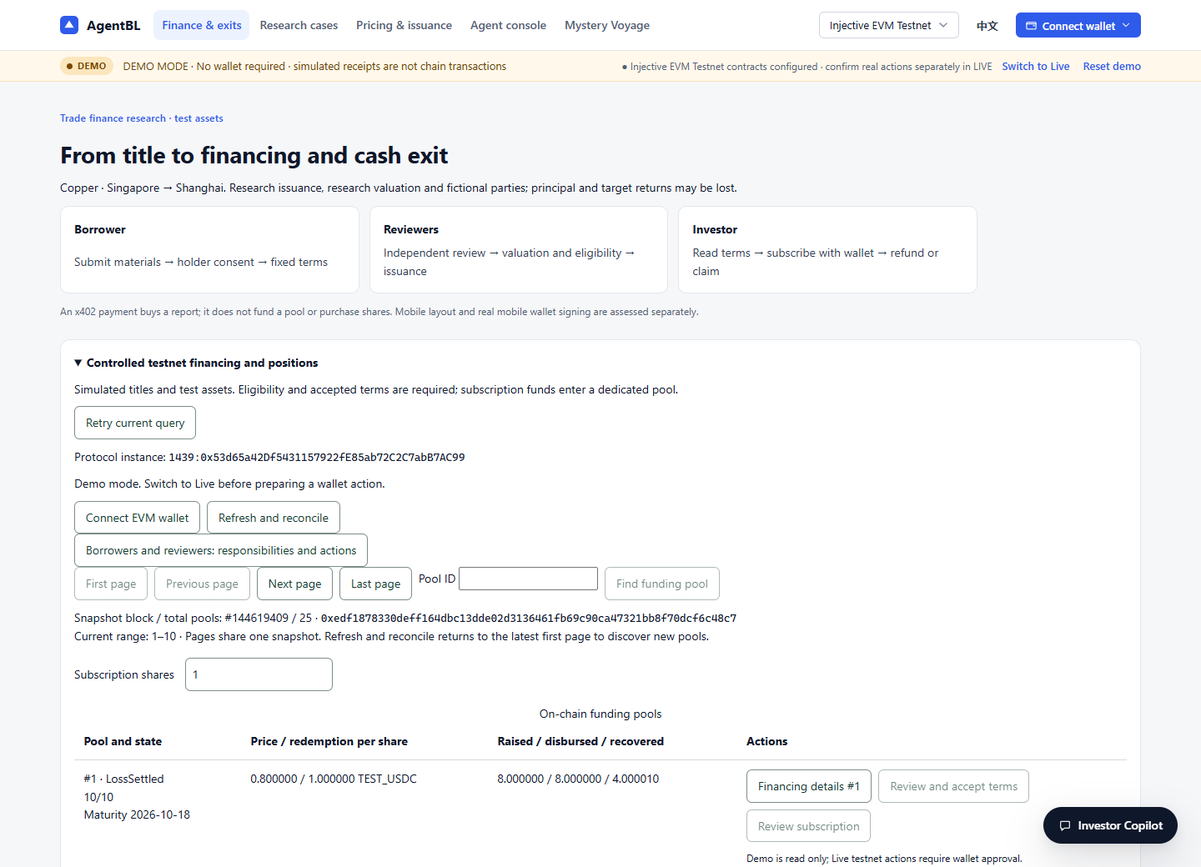
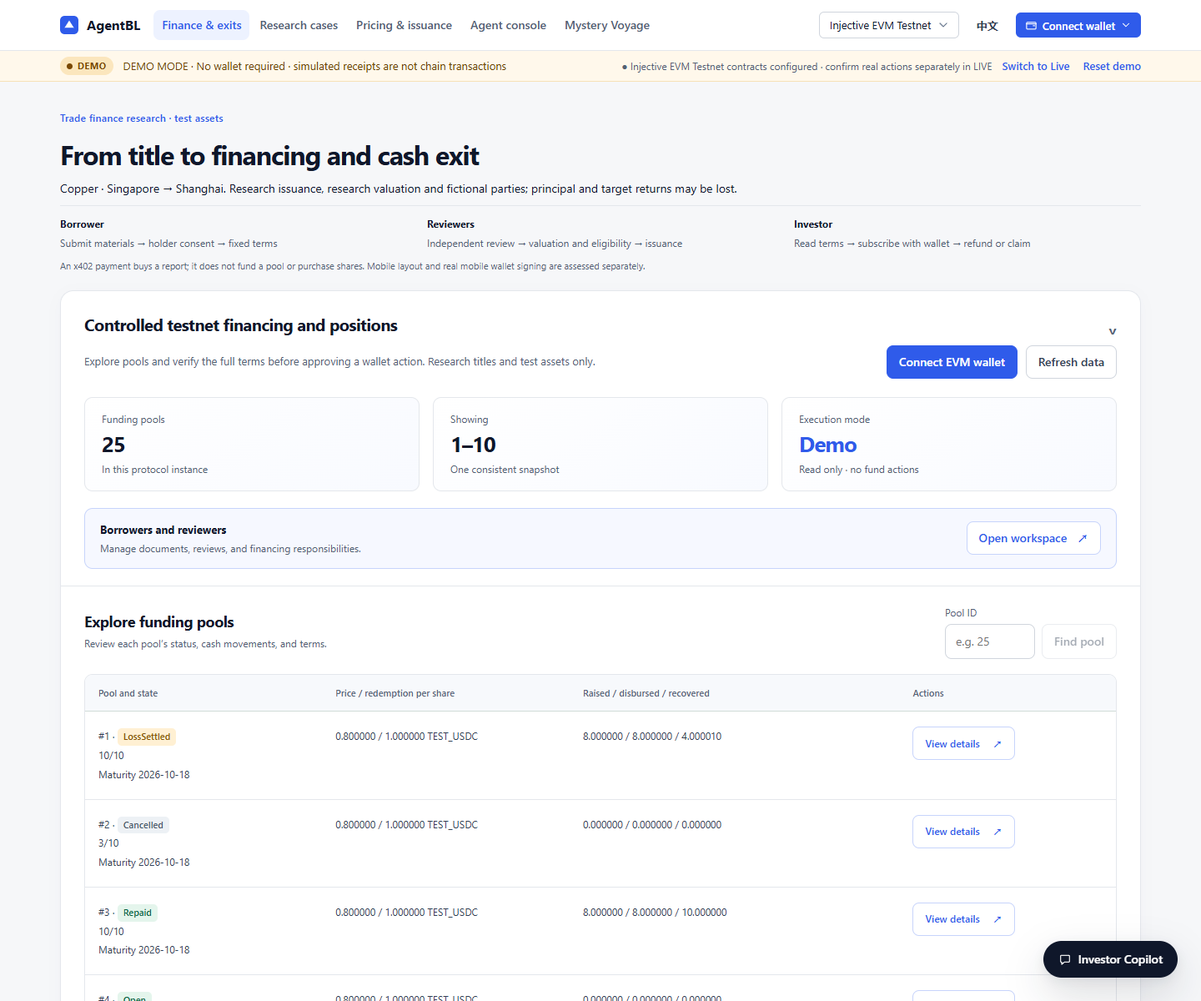
ui: organize financing controls and contextual pool actions

diff --git a/web/src/features/rights/ControlledFinancePanel.jsx b/web/src/features/rights/ControlledFinancePanel.jsx
@@ -24,6 +24,12 @@ export function ControlledFinancePanel({ primary = false }) {
   const focusAfterRead = useRef(null);
   const readGeneration = useRef(0);
   const confirmation = useRef(null), reviewOpener = useRef(null);
+  const detailPanel = useRef(null), detailOpener = useRef(null);
+  useEffect(() => {
+    if (selectedPool == null) return;
+    const frame = requestAnimationFrame(() => detailPanel.current?.focus());
+    return () => cancelAnimationFrame(frame);
+  }, [selectedPool]);
   useEffect(() => {
     const frame = requestAnimationFrame(() => {
       if (review) confirmation.current?.focus();
@@ -171,47 +177,63 @@ export function ControlledFinancePanel({ primary = false }) {
   };
   return <aside id="controlled-finance" className="controlled-panel" aria-label={zh ? '受控测试网融资' : 'Controlled testnet financing'}>
     <details open={primary || undefined}><summary>{zh ? '受控测试网融资与持仓' : 'Controlled testnet financing and positions'}</summary>
-      <p>{zh ? '模拟单证、测试代币。资格与条款同意通过后才可认购；募集款进入独立资金池。' : 'Simulated titles and test assets. Eligibility and accepted terms are required; subscription funds enter a dedicated pool.'}</p>
-      <div className="controlled-actions"><button type="button" disabled={busy || loading} onClick={() => setRefresh((n) => n + 1)}>{zh ? '重试当前查询' : 'Retry current query'}</button></div>
-      {loading && <p role="status">{zh ? '正在读取链上快照与持仓…' : 'Reading chain snapshot and positions…'}</p>}
+      <div className="finance-panel-lead">
+        <p>{zh ? '核对资金池状态与完整条款，再由钱包确认每一步。仅限模拟单证与测试代币。' : 'Explore pools and verify the full terms before approving a wallet action. Research titles and test assets only.'}</p>
+        <div className="finance-primary-actions">
+          {status?.active && <button type="button" className="finance-button-primary" onClick={connect} disabled={busy}>{wallet ? `${wallet.slice(0, 8)}…${wallet.slice(-4)}` : (zh ? '连接 EVM 钱包' : 'Connect EVM wallet')}</button>}
+          <button type="button" aria-label={zh ? '重试当前查询' : 'Retry current query'} disabled={busy || loading} onClick={() => setRefresh((n) => n + 1)}>{zh ? '刷新数据' : 'Refresh data'}</button>
+        </div>
+      </div>
+      {loading && <p className="finance-loading" role="status">{zh ? '正在读取链上快照与持仓…' : 'Reading chain snapshot and positions…'}</p>}
       {!status?.active ? (!loading && <p role="status">{zh ? '当前未连接可核验的受控融资实例。' : 'No verified controlled financing instance is connected.'}</p>) : <>
-        <p className="controlled-instance">{zh ? '协议实例' : 'Protocol instance'}: <code>{status.config.chainIdDecimal}:{status.config.contracts.RWAOfferingPool}</code></p>
-        <p>{demo ? (zh ? '当前为 Demo；切换至 Live 后可准备钱包操作。' : 'Demo mode. Switch to Live before preparing a wallet action.') : (zh ? 'Live 测试网；每笔操作需钱包确认。' : 'Live testnet. Each action requires wallet confirmation.')}</p>
-        <div className="controlled-actions"><button type="button" onClick={connect} disabled={busy}>{wallet ? `${wallet.slice(0, 8)}…${wallet.slice(-4)}` : (zh ? '连接 EVM 钱包' : 'Connect EVM wallet')}</button>
-          <button type="button" onClick={() => { setReview(null); setError(''); setPage({ from: 1 }); setRefresh((n) => n + 1); }} disabled={busy}>{zh ? '刷新与对账' : 'Refresh and reconcile'}</button></div>
-        <div className="role-entry"><button type="button" aria-expanded={rolesOpen} aria-controls="financing-role-entry" onClick={() => setShowRoles(!rolesOpen)}>{zh ? '融资方与审查人：角色待办与操作' : 'Borrowers and reviewers: responsibilities and actions'}</button><div id="financing-role-entry" hidden={!rolesOpen}><RoleWorkspace zh={zh} status={status} wallet={wallet} /></div></div>
-        <nav className="controlled-actions" aria-label={zh ? '资金池分页与查找' : 'Funding pool pages and lookup'}>
-          <button type="button" disabled={busy || loading || !listing?.snapshot || (!page.pool_id && page.from === 1)} onClick={() => navigate(1)}>{zh ? '首页' : 'First page'}</button>
-          <button type="button" disabled={busy || loading || !listing?.snapshot || Boolean(page.pool_id) || (page.from ?? 1) <= 1} onClick={() => navigate(Math.max(1, page.from - 10))}>{zh ? '上一页' : 'Previous page'}</button>
-          <button type="button" disabled={busy || loading || !listing?.next_cursor || !listing?.snapshot} onClick={() => navigate(listing.next_cursor)}>{zh ? '下一页' : 'Next page'}</button>
-          <button type="button" disabled={busy || loading || !listing?.snapshot || !listing?.total_pools || (!page.pool_id && !listing.next_cursor)} onClick={() => navigate(Math.floor((listing.total_pools - 1) / 10) * 10 + 1)}>{zh ? '末页' : 'Last page'}</button>
-          <label>{zh ? '指定池编号' : 'Pool ID'} <input inputMode="numeric" value={lookup} onChange={(event) => setLookup(event.target.value)} /></label><button type="button" disabled={busy || !/^[1-9]\d{0,8}$/u.test(lookup)} onClick={() => { setReview(null); setPage({ from: Number(lookup), pool_id: Number(lookup) }); }}>{zh ? '查找资金池' : 'Find funding pool'}</button>
-        </nav>
-        {listing?.snapshot && <p className="controlled-snapshot" role="status">{zh ? '快照区块 / 总池数' : 'Snapshot block / total pools'}: #{listing.snapshot.block_number} / {listing.total_pools} · <code>{listing.snapshot.block_hash}</code><br />{zh ? '当前范围' : 'Current range'}: {!listing.total_pools ? '—' : page.pool_id ? `#${page.pool_id}` : `${page.from}–${Math.min(page.from + 9, listing.total_pools)}`}  · {zh ? '翻页沿用同一快照；刷新与对账回到最新首页以发现新增池。' : 'Pages share one snapshot. Refresh and reconcile returns to the latest first page to discover new pools.'}</p>}
+        <div className="finance-overview" aria-label={zh ? '当前融资概览' : 'Current financing overview'}>
+          <div><span>{zh ? '资金池总数' : 'Funding pools'}</span><strong>{listing?.total_pools ?? '—'}</strong><small>{zh ? '当前协议实例' : 'In this protocol instance'}</small></div>
+          <div><span>{zh ? '当前浏览' : 'Showing'}</span><strong>{!listing ? '—' : !listing.total_pools ? '0' : page.pool_id ? `#${page.pool_id}` : `${page.from}–${Math.min(page.from + 9, listing.total_pools)}`}</strong><small>{zh ? '固定区块快照' : 'One consistent snapshot'}</small></div>
+          <div><span>{zh ? '操作模式' : 'Execution mode'}</span><strong className="finance-mode">{demo ? 'Demo' : 'Live'}</strong><small>{demo ? (zh ? '只读浏览 · 无资金操作' : 'Read only · no fund actions') : (zh ? '测试网 · 钱包逐次确认' : 'Testnet · wallet approvals')}</small></div>
+        </div>
+        <div className="role-entry"><div className="finance-role-callout"><div><strong>{zh ? '融资方与审查人' : 'Borrowers and reviewers'}</strong><p>{zh ? '管理单证、材料审核与融资流程。' : 'Manage documents, reviews, and financing responsibilities.'}</p></div><button type="button" aria-label={zh ? '融资方与审查人：角色待办与操作' : 'Borrowers and reviewers: responsibilities and actions'} aria-expanded={rolesOpen} aria-controls="financing-role-entry" onClick={() => setShowRoles(!rolesOpen)}>{rolesOpen ? (zh ? '收起工作台' : 'Close workspace') : (zh ? '打开工作台' : 'Open workspace')} <span aria-hidden="true">{rolesOpen ? '−' : '↗'}</span></button></div><div id="financing-role-entry" hidden={!rolesOpen}><RoleWorkspace zh={zh} status={status} wallet={wallet} /></div></div>
+        <div className="finance-directory-toolbar">
+          <div><h2>{zh ? '浏览资金池' : 'Explore funding pools'}</h2><p>{zh ? '查看状态、资金流转与每个池的完整条款。' : 'Review each pool’s status, cash movements, and terms.'}</p></div>
+          <form className="finance-pool-lookup" onSubmit={(event) => { event.preventDefault(); if (!busy && /^[1-9]\d{0,8}$/u.test(lookup)) { setReview(null); setPage({ from: Number(lookup), pool_id: Number(lookup) }); } }}>
+            <label htmlFor="funding-pool-lookup">{zh ? '指定池编号' : 'Pool ID'}</label><div><input id="funding-pool-lookup" inputMode="numeric" placeholder={zh ? '例如 25' : 'e.g. 25'} value={lookup} onChange={(event) => setLookup(event.target.value)} /><button type="submit" aria-label={zh ? '查找资金池' : 'Find funding pool'} disabled={busy || !/^[1-9]\d{0,8}$/u.test(lookup)}>{zh ? '查找' : 'Find pool'}</button></div>
+          </form>
+        </div>
         {listing?.failures?.length > 0 && <p role="alert">{zh ? '尚未读到的池' : 'Unread pools'}: {listing.failures.map((row) => `#${row.pool_id}`).join(', ')}</p>}
         {pending && <div className="controlled-pending"><p role="status">{zh ? '已保存待对账操作，暂停重复发送。' : 'A saved operation needs reconciliation. Repeated sending is paused.'} <button type="button" disabled={busy || !pending.intent_id} onClick={reconcile}>{zh ? '核对原交易' : 'Reconcile original transaction'}</button></p>
           <label>{zh ? '原钱包交易哈希' : 'Original wallet transaction hash'} <input value={originalHash} onChange={(event) => setOriginalHash(event.target.value)} /></label>
           <button type="button" disabled={busy || !pending.intent_id || !/^0x[a-fA-F0-9]{64}$/u.test(originalHash)} onClick={attachOriginal}>{zh ? '附加原交易并核对' : 'Attach and reconcile original transaction'}</button>
           {pending.status === 'draft' && <button type="button" disabled={busy} onClick={() => { localStorage.removeItem(storageKey()); setPending(null); setNotice(zh ? '已取消本地未广播草稿；审计记录保留。' : 'Local unbroadcast draft dismissed; audit history retained.'); }}>{zh ? '取消未广播草稿' : 'Dismiss unbroadcast draft'}</button>}
         </div>}
-        <label className="controlled-shares">{zh ? '认购份额' : 'Subscription shares'} <input inputMode="numeric" value={shares} onChange={(event) => { setShares(event.target.value); setReview(null); }} /></label>
-        <div className="controlled-table-wrap" role="region" aria-label={zh ? '资金池表格，可横向滚动' : 'Funding pool table, scroll horizontally'} tabIndex={0}><table><caption>{zh ? '链上资金池' : 'On-chain funding pools'}</caption><thead><tr><th>{zh ? '池与状态' : 'Pool and state'}</th><th>{zh ? '每份价格 / 兑付' : 'Price / redemption per share'}</th><th>{zh ? '募集 / 放款 / 回收' : 'Raised / disbursed / recovered'}</th><th>{zh ? '操作' : 'Actions'}</th></tr></thead>
-          <tbody>{offers.map((offer) => <tr key={offer.pool_id}><td>#{offer.pool_id} · {stateLabel(offer.state)}<br />{offer.subscribed}/{offer.shares}<br />{zh ? '到期 ' : 'Maturity '}<time>{new Date(Number(offer.maturity) * 1000).toISOString().slice(0, 10)}</time></td>
-            <td>{amount(offer.issue_price_atomic)} / {amount(offer.redemption_per_share_atomic)} TEST_USDC</td><td>{amount(offer.raised_atomic)} / {amount(offer.disbursed_atomic)} / {amount(offer.recovered_atomic)}</td>
-            <td><div className="controlled-actions"><button type="button" aria-expanded={selectedPool === offer.pool_id} aria-controls="funding-pool-detail" onClick={() => setSelectedPool(selectedPool === offer.pool_id ? null : offer.pool_id)}>{zh ? '融资详情' : 'Financing details'} #{offer.pool_id}</button><button type="button" disabled={busy || loading || demo || !wallet || !offer.subscription_open || Boolean(pending)} onClick={() => startReview('acknowledge', offer)}>{zh ? '审阅并同意条款' : 'Review and accept terms'}</button>
-              <button type="button" disabled={busy || loading || demo || !wallet || !offer.subscription_open || Boolean(pending) || !/^[1-9]\d{0,8}$/u.test(shares)} onClick={() => startReview('subscribe', offer)}>{zh ? '审阅认购' : 'Review subscription'}</button></div><p className="small pool-next">{blockedReason(offer)}</p></td></tr>)}</tbody></table></div>
-        {!offers.length && listing && listing.complete !== false && <p>{zh ? '此实例尚无发行。' : 'This instance has no offerings.'}</p>}
-        {offers.filter((offer) => offer.pool_id === selectedPool).map((offer) => <section key={offer.pool_id} id="funding-pool-detail" className="funding-detail" aria-label={zh ? '融资详情' : 'Financing details'}>
-          <h2>{zh ? '资金池' : 'Funding pool'} #{offer.pool_id} · {stateLabel(offer.state)}</h2>
+        {offers.filter((offer) => offer.pool_id === selectedPool).map((offer) => <section ref={detailPanel} tabIndex={-1} key={offer.pool_id} id="funding-pool-detail" className="funding-detail" aria-label={zh ? '融资详情' : 'Financing details'}>
+          <div className="finance-detail-head"><h2>{zh ? '资金池' : 'Funding pool'} #{offer.pool_id} · {stateLabel(offer.state)}</h2><button type="button" onClick={() => { setSelectedPool(null); detailOpener.current?.focus(); }}>{zh ? '关闭详情' : 'Close details'}</button></div>
           <p>{blockedReason(offer)}</p>
           <dl><div><dt>{zh ? '资产与责任' : 'Asset and responsibility'}</dt><dd>{zh ? '以完整公开条款中的货物、路线和责任主体为准；哈希不证明真实货权。' : 'Read the cargo, route and responsible parties in the full public terms. A hash does not prove real title.'}</dd></div>
             <div><dt>{zh ? '募集 / 放款截止 / 到期' : 'Subscription / disbursement deadline / maturity'}</dt><dd>{[offer.subscription_deadline, offer.disbursement_deadline, offer.maturity].map((v) => v ? new Date(Number(v) * 1000).toISOString() : '—').join(' / ')}</dd></div>
             <div><dt>{zh ? '进度' : 'Progress'}</dt><dd>{offer.subscribed} / {offer.shares} {zh ? '份；实收与回款见上表。' : 'shares; actual cash amounts appear above.'}</dd></div>
             <div><dt>{zh ? '退出责任' : 'Cash exit'}</dt><dd>{zh ? '出资人自行退款或领取；融资方实际回款。处置与异议按已签条款执行。' : 'Investors refund or claim for themselves; the borrower sends actual repayments. Resolution and disputes follow the signed terms.'}</dd></div></dl>
           <p>{zh ? '目标兑付不是预测收益；可能损失本金。公开条款在每次钱包授权前独立核验。' : 'Target redemption is not a return forecast; principal may be lost. Full terms are independently checked before wallet authorization.'}</p>
+          <div className="finance-detail-actions">
+        <label className="controlled-shares">{zh ? '认购份额' : 'Subscription shares'} <input inputMode="numeric" value={shares} onChange={(event) => { setShares(event.target.value); setReview(null); }} /></label>
+          <div className="controlled-actions"><button type="button" className="finance-button-primary" disabled={busy || loading || demo || !wallet || !offer.subscription_open || Boolean(pending) || !/^[1-9]\d{0,8}$/u.test(shares)} onClick={() => startReview('subscribe', offer)}>{zh ? '审阅认购' : 'Review subscription'}</button>
+          <button type="button" disabled={busy || loading || demo || !wallet || !offer.subscription_open || Boolean(pending)} onClick={() => startReview('acknowledge', offer)}>{zh ? '审阅并同意条款' : 'Review and accept terms'}</button></div></div>
           <button type="button" disabled={busy || loading} onClick={() => readPublicTerms(offer)}>{zh ? '只读查看完整条款' : 'Read full terms without signing'}</button>
           {publicTerms?.pool_id === offer.pool_id && <ReadableTerms pack={publicTerms.pack} zh={zh} />}
         </section>)}
+        <div className="controlled-table-wrap" role="region" aria-label={zh ? '资金池表格，可横向滚动' : 'Funding pool table, scroll horizontally'} tabIndex={0}><table><caption className="sr-only">{zh ? '链上资金池' : 'On-chain funding pools'}</caption><thead><tr><th>{zh ? '池与状态' : 'Pool and state'}</th><th>{zh ? '每份价格 / 兑付' : 'Price / redemption per share'}</th><th>{zh ? '募集 / 放款 / 回收' : 'Raised / disbursed / recovered'}</th><th>{zh ? '操作' : 'Actions'}</th></tr></thead>
+          <tbody>{offers.map((offer) => <tr key={offer.pool_id}><td>#{offer.pool_id} · <span className={`finance-state finance-state-${String(offer.state).toLowerCase()}`}>{stateLabel(offer.state)}</span><br />{offer.subscribed}/{offer.shares}<br />{zh ? '到期 ' : 'Maturity '}<time>{new Date(Number(offer.maturity) * 1000).toISOString().slice(0, 10)}</time></td>
+            <td>{amount(offer.issue_price_atomic)} / {amount(offer.redemption_per_share_atomic)} TEST_USDC</td><td>{amount(offer.raised_atomic)} / {amount(offer.disbursed_atomic)} / {amount(offer.recovered_atomic)}</td>
+            <td><button type="button" className="finance-pool-link" aria-label={`${zh ? '融资详情' : 'Financing details'} #${offer.pool_id}`} aria-expanded={selectedPool === offer.pool_id} aria-controls="funding-pool-detail" onClick={() => { detailOpener.current = document.activeElement; setSelectedPool(selectedPool === offer.pool_id ? null : offer.pool_id); }}>{zh ? '查看详情' : 'View details'} <span aria-hidden="true">↗</span></button></td></tr>)}</tbody></table></div>
+        {!offers.length && listing && listing.complete !== false && <p>{zh ? '此实例尚无发行。' : 'This instance has no offerings.'}</p>}
+        <nav className="finance-pagination" aria-label={zh ? '资金池分页与查找' : 'Funding pool pages and lookup'}>
+          <span>{zh ? '当前范围' : 'Current range'}: {!listing?.total_pools ? '—' : page.pool_id ? `#${page.pool_id}` : `${page.from}–${Math.min(page.from + 9, listing.total_pools)}`} / {listing?.total_pools ?? '—'}</span>
+          <div className="controlled-actions"><button type="button" disabled={busy || loading || !listing?.snapshot || (!page.pool_id && page.from === 1)} onClick={() => navigate(1)}>{zh ? '首页' : 'First page'}</button>
+          <button type="button" disabled={busy || loading || !listing?.snapshot || Boolean(page.pool_id) || (page.from ?? 1) <= 1} onClick={() => navigate(Math.max(1, page.from - 10))}>{zh ? '上一页' : 'Previous page'}</button>
+          <button type="button" disabled={busy || loading || !listing?.next_cursor || !listing?.snapshot} onClick={() => navigate(listing.next_cursor)}>{zh ? '下一页' : 'Next page'}</button>
+          <button type="button" disabled={busy || loading || !listing?.snapshot || !listing?.total_pools || (!page.pool_id && !listing.next_cursor)} onClick={() => navigate(Math.floor((listing.total_pools - 1) / 10) * 10 + 1)}>{zh ? '末页' : 'Last page'}</button></div>
+        </nav>
+        <div className="finance-data-context"><p>{zh ? '翻页沿用当前快照。要查看新增资金池，请回到最新首页。' : 'Pages use the same snapshot. Return to the latest first page to discover new pools.'}</p><button type="button" onClick={() => { setReview(null); setError(''); setPage({ from: 1 }); setRefresh((n) => n + 1); }} disabled={busy}>{zh ? '刷新与对账' : 'Refresh and reconcile'}</button></div>
+        <div className="finance-instance-meta"><p className="controlled-instance">{zh ? '协议实例' : 'Protocol instance'} <code>{status.config.chainIdDecimal}:{status.config.contracts.RWAOfferingPool}</code></p>
+        {listing?.snapshot && <p className="controlled-snapshot" role="status">{zh ? '快照区块 / 总池数' : 'Snapshot block / total pools'}: #{listing.snapshot.block_number} / {listing.total_pools} · <code>{listing.snapshot.block_hash}</code></p>}</div>
         <h2 className="positions-heading">{zh ? '我的持仓与退出' : 'My positions and exits'}</h2>
         {!wallet && <p>{zh ? '连接钱包后读取自己的持仓和退出权利。' : 'Connect your wallet to read your positions and exits.'}</p>}
         {wallet && !loading && !positionError && !positions.length && <p>{zh ? '此钱包在当前实例没有已发现的持仓。' : 'No positions were found for this wallet in this instance.'}</p>}
@@ -229,7 +251,7 @@ export function ControlledFinancePanel({ primary = false }) {
           <button type="button" disabled={busy || demo || (Boolean(review.offer) && !termsRead)} onClick={confirm}>{zh ? '确认并前往钱包' : 'Confirm and continue to wallet'}</button><button type="button" disabled={busy} onClick={() => setReview(null)}>{zh ? '取消' : 'Cancel'}</button></section>}
       </>}
       {busy && <p role="status">{zh ? '正在处理，请保留当前交易记录…' : 'Processing. Keep the current transaction record…'}</p>}
-      {error && <p role="alert">{error}</p>}{notice && <p role="status" className="controlled-notice">{notice}</p>}
+      {error && <p role="alert" className="finance-alert">{error}</p>}{notice && <p role="status" className="controlled-notice">{notice}</p>}
     </details>
   </aside>;
 }

diff --git a/web/src/styles/finance.css b/web/src/styles/finance.css
@@ -1,0 +1,111 @@
+/* Funding workspace: one primary action, a quiet directory, and contextual approvals. */
+.finance-intro { max-width: none; gap: 10px; margin-bottom: 20px; }
+.finance-intro h1 { font-size: 32px; letter-spacing: -.035em; }
+.finance-journey { padding-top: 12px; border-top: 1px solid var(--line); gap: 24px; }
+.finance-journey li { padding: 0; border: 0; background: none; gap: 4px; }
+.finance-journey strong { font-size: 12px; }
+.finance-journey span { font-size: 12px; color: var(--muted); }
+.finance-intro > .small { font-size: 11px; }
+.controlled-panel { margin-top: 20px; }
+.controlled-panel > details { padding: 0; border: 1px solid var(--line); border-radius: 16px; background: var(--surface); box-shadow: 0 4px 20px #19375c06; }
+.controlled-panel > details > summary { padding: 24px 28px 0; list-style: none; font-size: 20px; letter-spacing: -.025em; }
+.controlled-panel > details > summary::-webkit-details-marker { display: none; }
+.controlled-panel > details > summary::after { content: '⌄'; float: right; color: var(--muted); }
+.controlled-panel button { min-height: 40px; padding: 9px 14px; border: 1px solid var(--line-strong); border-radius: 8px; background: #fff; color: var(--text-2); font-weight: 550; line-height: 1.4; transition: background .15s, border-color .15s; }
+.controlled-panel button:hover:not(:disabled) { border-color: #a6b8db; background: var(--accent-soft); color: var(--accent-hover); }
+.controlled-panel button:disabled { opacity: .45; }
+.controlled-panel button:focus-visible, .controlled-panel input:focus-visible, .controlled-panel summary:focus-visible { outline: 3px solid var(--accent); outline-offset: 3px; }
+.controlled-panel button.finance-button-primary { background: var(--accent); border-color: var(--accent); color: #fff; }
+.controlled-panel button.finance-button-primary:hover:not(:disabled) { background: var(--accent-hover); border-color: var(--accent-hover); color: #fff; }
+.controlled-panel input:not([type="checkbox"]) { min-width: 0; padding: 9px 12px; border: 1px solid var(--line-strong); border-radius: 8px; background: #fff; color: var(--text); }
+.finance-panel-lead { display: flex; align-items: center; justify-content: space-between; gap: 24px; padding: 10px 28px 22px; }
+.finance-panel-lead > p { max-width: 670px; margin: 0; color: var(--muted); font-size: 13px; }
+.finance-primary-actions { display: flex; flex-shrink: 0; flex-wrap: wrap; gap: 10px; }
+.finance-overview { display: grid; grid-template-columns: repeat(3, minmax(0, 1fr)); gap: 16px; margin: 0 28px 20px; }
+.finance-overview > div { display: grid; gap: 4px; padding: 16px 20px; border: 1px solid var(--line); border-radius: 10px; background: linear-gradient(145deg, #fff, #f8faff); }
+.finance-overview span, .finance-overview small { color: var(--muted); font-size: 12px; }
+.finance-overview strong { font-size: 26px; font-weight: 650; letter-spacing: -.04em; line-height: 1.3; }
+.finance-overview .finance-mode { color: var(--accent); }
+.role-entry { margin: 0 28px 20px; }
+.finance-role-callout { display: flex; align-items: center; justify-content: space-between; gap: 20px; padding: 14px 18px; border: 1px solid var(--accent-line); border-radius: 10px; background: #f6f8ff; }
+.finance-role-callout strong { font-size: 13px; }
+.finance-role-callout p { margin: 3px 0 0; color: var(--muted); font-size: 12px; }
+.finance-role-callout > button { flex-shrink: 0; color: var(--accent); border-color: var(--accent-line); }
+.finance-role-callout button span { padding-left: 8px; }
+.finance-directory-toolbar { display: flex; align-items: center; justify-content: space-between; gap: 24px; padding: 22px 28px 18px; border-top: 1px solid var(--line); }
+.finance-directory-toolbar h2 { font-size: 18px; letter-spacing: -.02em; }
+.finance-directory-toolbar p { margin: 5px 0 0; color: var(--muted); font-size: 12px; }
+.finance-pool-lookup { min-width: 0; display: grid; gap: 5px; }
+.finance-pool-lookup > label { color: var(--muted); font-size: 12px; }
+.finance-pool-lookup > div { display: flex; gap: 8px; }
+.finance-pool-lookup input { width: 108px; }
+.controlled-table-wrap { margin: 0 28px; border: 1px solid var(--line); border-radius: 10px; }
+.controlled-panel table { min-width: 660px; border-collapse: separate; border-spacing: 0; font-variant-numeric: tabular-nums; }
+.controlled-panel th { padding: 13px 16px; background: #f7f9fc; color: var(--muted); font-size: 11px; font-weight: 600; }
+.controlled-panel td { padding: 18px 16px; color: var(--text-2); border-color: var(--line); font-size: 12px; line-height: 1.9; }
+.controlled-panel th:nth-child(1) { width: 23%; }
+.controlled-panel th:nth-child(2) { width: 24%; }
+.controlled-panel th:nth-child(3) { width: 32%; }
+.controlled-panel tbody tr:last-child td { border-bottom: 0; }
+.controlled-panel tbody tr:hover { background: #fbfcff; }
+.finance-state { display: inline-block; padding: 1px 7px; border-radius: 5px; background: #edf1f5; color: #465467; font-size: 11px; font-weight: 600; line-height: 1.7; }
+.finance-state-open, .finance-state-repaid { color: #096441; background: #e4f5ec; }
+.finance-state-losssettled, .finance-state-defaulted { color: #875200; background: #fff0d3; }
+.controlled-panel button.finance-pool-link { color: var(--accent); border-color: var(--accent-line); white-space: nowrap; }
+.finance-pool-link span { margin-left: 12px; }
+.finance-pagination { display: flex; align-items: center; justify-content: space-between; gap: 16px; padding: 18px 28px; }
+.finance-pagination > span { font-size: 12px; color: var(--muted); }
+.finance-pagination .controlled-actions { gap: 6px; }
+.finance-pagination button { min-height: 36px; padding: 7px 12px; font-size: 12px; }
+.finance-data-context { display: flex; align-items: center; justify-content: space-between; gap: 16px; padding: 0 28px 18px; }
+.finance-data-context p { margin: 0; font-size: 12px; color: var(--muted); }
+.finance-data-context button { flex-shrink: 0; border-color: transparent; color: var(--accent); font-size: 12px; }
+.finance-instance-meta { padding: 12px 28px; border-top: 1px solid var(--line); background: #fafbfd; }
+.finance-instance-meta p { margin: 4px 0; color: var(--muted); font-size: 11px; }
+.finance-instance-meta code { font-size: 11px; }
+.controlled-panel .funding-detail { margin: 0 28px 20px; padding: 22px; border-color: var(--accent-line); background: #f8faff; scroll-margin-top: 140px; }
+.finance-detail-head { display: flex; align-items: center; justify-content: space-between; gap: 14px; }
+.finance-detail-head > button { flex-shrink: 0; font-size: 12px; }
+.finance-detail-actions { display: flex; flex-wrap: wrap; align-items: center; justify-content: space-between; gap: 16px; padding: 16px 0; border-top: 1px solid var(--accent-line); }
+.controlled-panel .controlled-shares { display: grid; align-items: start; gap: 6px; margin: 0; font-size: 12px; color: var(--muted); }
+.controlled-shares input { width: 120px; }
+.controlled-panel .positions-heading { margin-top: 20px; padding: 24px 28px 0; border-top: 1px solid var(--line); font-size: 18px; }
+.positions-heading + p { margin: 16px 28px 28px; padding: 20px; border: 1px dashed var(--line-strong); border-radius: 10px; color: var(--muted); background: #fafbfd; }
+.controlled-panel .controlled-position, .controlled-panel .controlled-confirm { margin: 16px 28px; padding: 20px; border-color: var(--line); border-radius: 12px; }
+.controlled-panel .controlled-pending { margin: 16px 28px; padding: 18px; background: #fff8ea; border-radius: 10px; }
+.controlled-panel .finance-alert { margin: 16px 28px; padding: 14px 16px; color: #9c2c22; background: #fff0ed; border: 1px solid #f0c3ba; border-radius: 8px; }
+.controlled-panel .controlled-notice, .finance-loading { margin: 16px 28px; color: var(--muted); }
+@media (max-width: 900px) {
+  .finance-panel-lead { align-items: flex-start; flex-direction: column; gap: 14px; }
+  .finance-directory-toolbar { align-items: flex-start; }
+}
+@media (max-width: 767px) {
+  .finance-intro h1 { font-size: 27px; }
+  .finance-journey { gap: 10px; }
+  .controlled-panel > details > summary { padding: 20px 16px 0; font-size: 18px; }
+  .finance-panel-lead { padding: 10px 16px 18px; }
+  .finance-primary-actions { width: 100%; }
+  .finance-primary-actions button { flex: 1; }
+  .finance-overview { margin: 0 16px 16px; gap: 8px; }
+  .finance-overview > div { padding: 12px 10px; }
+  .finance-overview strong { font-size: 22px; }
+  .finance-overview span, .finance-overview small { font-size: 11px; }
+  .role-entry { margin: 0 16px 16px; }
+  .finance-role-callout { align-items: flex-start; flex-direction: column; gap: 12px; padding: 14px; }
+  .finance-role-callout > button { width: 100%; }
+  .finance-directory-toolbar { flex-direction: column; gap: 14px; padding: 20px 16px 16px; }
+  .finance-pool-lookup { width: 100%; }
+  .finance-pool-lookup input { flex: 1; width: 0; }
+  .finance-pool-lookup button { min-width: 100px; }
+  .controlled-table-wrap { margin: 0 16px; }
+  .finance-pagination { padding: 16px; align-items: stretch; flex-direction: column; gap: 12px; }
+  .finance-pagination .controlled-actions { display: grid; grid-template-columns: repeat(2, minmax(0, 1fr)); }
+  .finance-data-context { align-items: flex-start; padding: 0 16px 16px; flex-direction: column; gap: 8px; }
+  .finance-data-context button { padding-left: 0; }
+  .finance-instance-meta { padding: 12px 16px; }
+  .controlled-panel .funding-detail { margin: 0 16px 16px; padding: 16px; }
+  .finance-detail-head { align-items: flex-start; flex-direction: column; }
+  .controlled-panel .positions-heading { padding: 20px 16px 0; }
+  .positions-heading + p { margin: 16px; }
+  .controlled-panel .controlled-position, .controlled-panel .controlled-confirm, .controlled-panel .controlled-pending, .controlled-panel .finance-alert { margin: 16px; }
+}

diff --git a/tests/browser/operations.spec.js b/tests/browser/operations.spec.js
@@ -47,6 +47,7 @@ for (const language of ['zh', 'en']) {
       quote_version: '3', terms_hash: pack.terms_hash, disclosure_hash: pack.disclosure_hash, policy_hash: pack.policy_hash, subscription_open: true }] } }));
     await page.route('**/api/controlled/positions?**', (route) => route.fulfill({ json: { positions: [] } }));
     await page.goto('/#/market'); const panel = page.locator('.controlled-panel'); await panel.locator('summary').click();
+    await panel.getByRole('button', { name: `${language === 'zh' ? '融资详情' : 'Financing details'} #1`, exact: true }).click();
     const review = panel.getByRole('button', { name: language === 'zh' ? '审阅认购' : 'Review subscription', exact: true }); await expect(review).toBeEnabled();
     await panel.locator('.controlled-shares input').fill('2'); await review.click();
     const card = panel.locator('.controlled-confirm'); await expect(card).toContainText('1.600000'); await expect(card).toContainText(pack.terms_hash);

diff --git a/web/src/main.jsx b/web/src/main.jsx
@@ -2,6 +2,7 @@ import { StrictMode } from 'react';
 import { createRoot } from 'react-dom/client';
 import './styles/index.css';
 import './styles/responsive.css';
+import './styles/finance.css';
 import { App } from './App.jsx';
 import { boot } from './state/controller.js';
 
